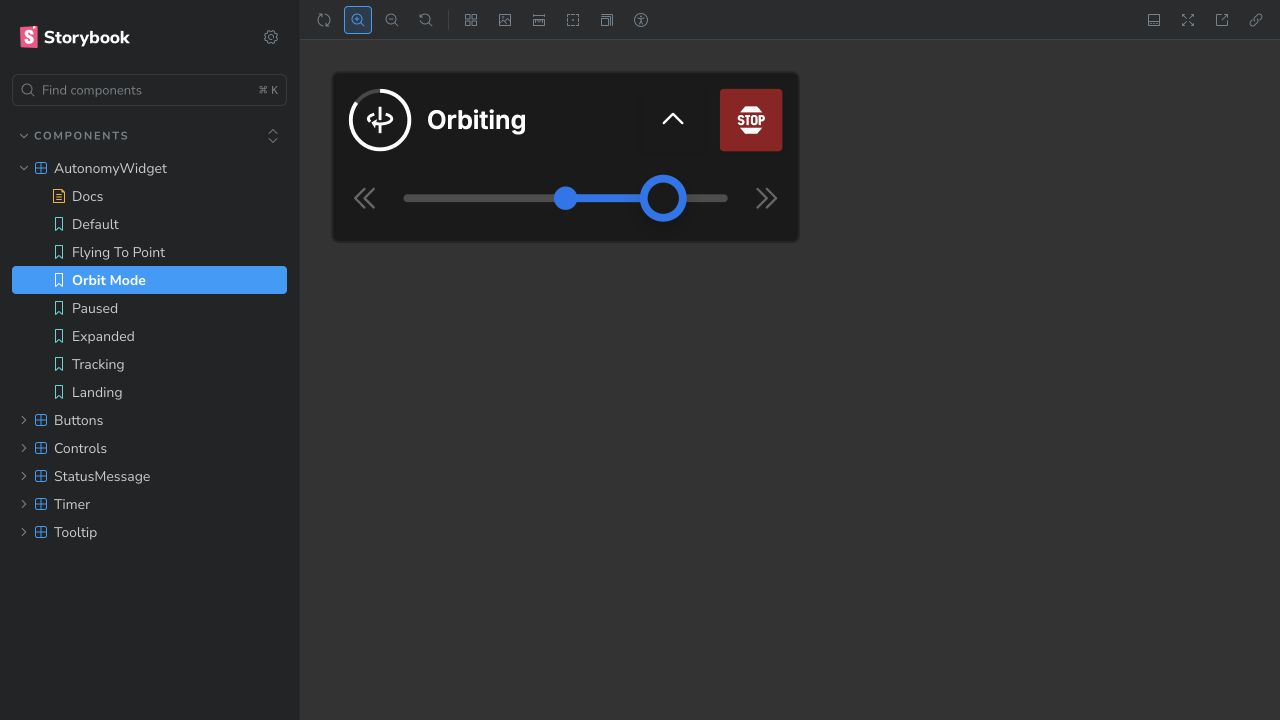
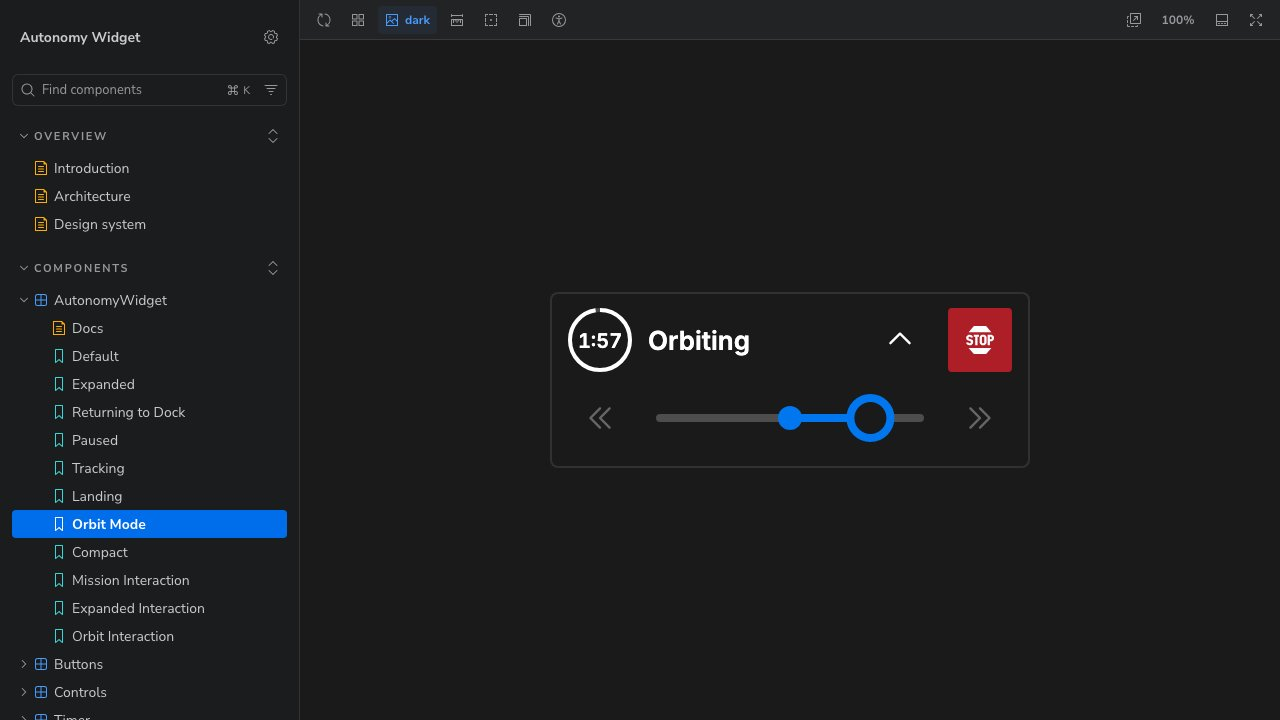
feat(content): walk through the Skydio widget's config and state
The Skydio case study now follows the widget the way its public Storybook does: one typed config file, a provider that either owns the state or hands it to the host app, and the tests that run in Storybook. It also corrects the contract year to 2025 and says the widget shipped in a Skydio software release.

## What changed

- Screenshots: the Expanded and Paused story captures are deleted. In their place are two captures of the Storybook Architecture page, the mission configuration explorer and a host app setting the widget's state. The Orbit Mode image is updated, with new alt text and a caption that explains the orbit marker and the 5% caret steps. The home page and the Work index use the same file.
- The config sample shows what an `ACTION_CONFIGS` entry holds: status text, paused text, timer icon, and the active and paused buttons, across 13 mission states. The old sample showed per-button icon and label fields.
- A new "Local state or host state" section covers `AutonomyWidgetProvider` in uncontrolled and controlled modes, with a controlled example. The widget never fetches data or talks to the drone. Commands leave through `onAction` and `onOrbitProgressChange`, and the host app sends and confirms them.
- The component list and barrel import use `Button` where the old copy said `IconButton`, and add `AutonomyWidgetProvider` and `Timer`.
[…]

diff --git a/src/data/projects.ts b/src/data/projects.ts
@@ -257,11 +257,11 @@ export const PROJECTS: ProjectMeta[] = [
     category: 'CONSULTING',
     categoryColor: 'yellow',
     summary:
-      'Built React/Storybook component library and onboarded product and engineering teams on adoption patterns for autonomous drone platform.',
+      "Configuration-driven React components for Skydio's drone mission controls, documented in a public Storybook and shipped in a Skydio software release. I also trained their product and engineering teams on the patterns.",
     description:
-      "Built a React mission-control widget implementing Skydio's Rivit design language, with configurable actions, shared state, and Storybook documentation.",
+      "Built a React mission-control widget in Skydio's Rivit design language. One typed config file drives four mission types and 15+ mission actions, and the widget runs on its own state or on state the host app passes in.",
     role: 'Frontend Consultant · Component Architecture & Storybook',
-    timeline: '2024 (Contract)',
+    timeline: '2025 (Contract)',
     publishedAt: '2024-05-01',
     featured: true,
     technologies: [
@@ -270,6 +270,8 @@ export const PROJECTS: ProjectMeta[] = [
       'Storybook',
       'Tailwind CSS',
       'Vite',
+      'Vitest',
+      'Chromatic',
       'Config-Driven UI',
     ],
     tags: ['React', 'Storybook', 'Consulting'],
